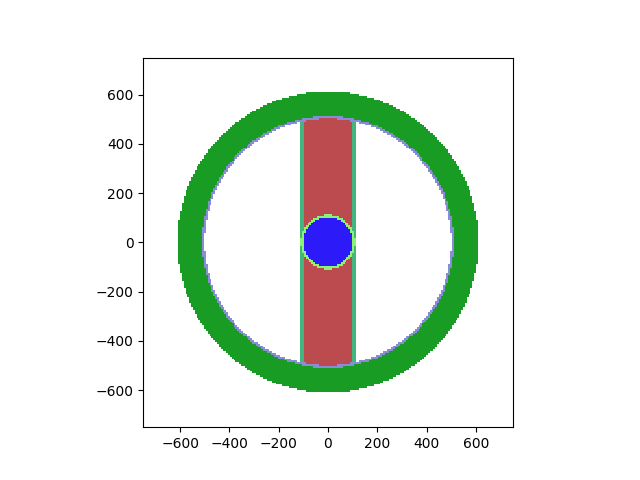
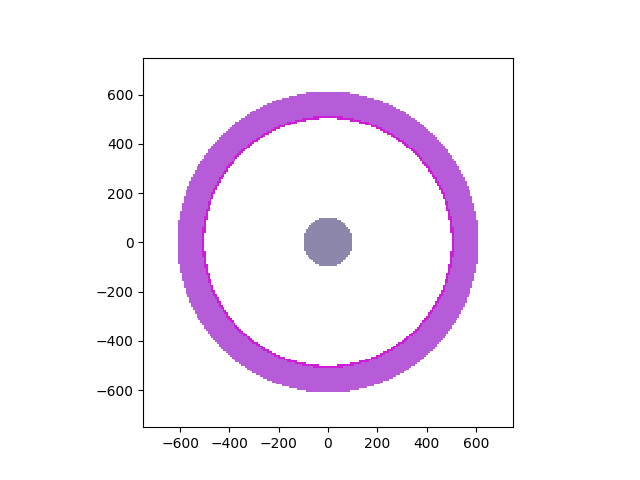
reduced amount of geometry-based tasks

Changed region(s): [[0.2812, 0.1875, 0.75, 0.8438]]

diff --git a/tasks/task_2/3_example_geometry_viewer_2d_tokamak.py b/tasks/task_2/3_example_geometry_viewer_2d_tokamak.py
@@ -30,34 +30,29 @@ mats.append(eurofer)
 
 #GEOMETRY#
 
-central_sol_surface = openmc.ZCylinder(r=100)
-central_shield_outer_surface = openmc.ZCylinder(r=110,boundary_type='vacuum')
-vessel_inner = openmc.Sphere(r=500,boundary_type='vacuum')
+central_sol_surface = openmc.ZCylinder(r=100, boundary_type='vacuum')
+vessel_inner = openmc.Sphere(r=500, boundary_type='vacuum')
 first_wall_outer_surface = openmc.Sphere(r=510)
 breeder_blanket_outer_surface = openmc.Sphere(r=610)
 
 central_sol_region = -central_sol_surface & -breeder_blanket_outer_surface
-central_sol_cell = openmc.Cell(region=central_sol_region) 
+central_sol_cell = openmc.Cell(region=central_sol_region)
 central_sol_cell.fill = copper
 
-central_shield_region = +central_sol_surface & -central_shield_outer_surface & -breeder_blanket_outer_surface
-central_shield_cell = openmc.Cell(region=central_shield_region) 
-central_shield_cell.fill = eurofer
-
-first_wall_region = -first_wall_outer_surface & +vessel_inner & +central_shield_outer_surface
+first_wall_region = -first_wall_outer_surface & +vessel_inner & +central_sol_surface
 first_wall_cell = openmc.Cell(region=first_wall_region) 
 first_wall_cell.fill = eurofer
 
-breeder_blanket_region = +first_wall_outer_surface & -breeder_blanket_outer_surface & +central_shield_outer_surface
+breeder_blanket_region = +first_wall_outer_surface & -breeder_blanket_outer_surface & +central_sol_surface
 breeder_blanket_cell = openmc.Cell(region=breeder_blanket_region) 
 breeder_blanket_cell.fill = eurofer
 
 #this is a void and hence has no material fill
-inner_vessel_region = +central_shield_outer_surface & -vessel_inner
+inner_vessel_region = +central_sol_surface & -vessel_inner
 inner_vessel_cell = openmc.Cell(region=inner_vessel_region) 
 inner_vessel_cell.name = 'inner_vessel'
 
-universe = openmc.Universe(cells=[central_sol_cell, central_shield_cell ,first_wall_cell , breeder_blanket_cell])
+universe = openmc.Universe(cells=[central_sol_cell, first_wall_cell, breeder_blanket_cell])
 
 # VISULISATION
 

diff --git a/tasks/task_2/2_example_geometry_viewer_2d.py b/tasks/task_2/2_example_geometry_viewer_2d.py
@@ -32,8 +32,8 @@ mats.export_to_xml()
 
 
 #example surfaces
-surface_sph1 = openmc.Sphere(r=100) #hint, change the radius of this shpere to 500
-surface_sph2 = openmc.Sphere(r=200) #hint, change the radius of this shpere to 500+100
+surface_sph1 = openmc.Sphere(r=100) #hint, change the radius of this sphere to 500
+surface_sph2 = openmc.Sphere(r=200) #hint, change the radius of this sphre to 500+100
 
 #add more surfaces here using https://openmc.readthedocs.io/en/stable/usersguide/geometry.html#surfaces-and-regions
 
@@ -52,9 +52,9 @@ plt.show(universe.plot(width=(400,400),basis='xz',colors={cell_1: 'blue'})) #hin
 plt.show(universe.plot(width=(400,400),basis='xy',colors={cell_1: 'blue'}))
 plt.show(universe.plot(width=(400,400),basis='yz',colors={cell_1: 'blue'}))
 
-universe.plot(width=(400,400),basis='xz',colors={cell_1: 'blue'}).get_figure().savefig('xz_shpere.png')
-universe.plot(width=(400,400),basis='xy',colors={cell_1: 'blue'}).get_figure().savefig('xy_shpere.png')
-universe.plot(width=(400,400),basis='yz',colors={cell_1: 'blue'}).get_figure().savefig('yz_shpere.png')
+universe.plot(width=(400,400),basis='xz',colors={cell_1: 'blue'}).get_figure().savefig('xz_sphere.png')
+universe.plot(width=(400,400),basis='xy',colors={cell_1: 'blue'}).get_figure().savefig('xy_sphere.png')
+universe.plot(width=(400,400),basis='yz',colors={cell_1: 'blue'}).get_figure().savefig('yz_sphere.png')
 
 geom = openmc.Geometry(universe)
 

diff --git a/README.md b/README.md
@@ -141,7 +141,7 @@ The second method of producing 2D slice plots works better for large models.
 
 ```python3 2_example_geometry_viewer_2d.py```
 
-Edit the script and try adding a first wall and shielded central column to the model using the OpenMC [simple examples](https://openmc.readthedocs.io/en/stable/examples/pincell.html#Defining-Geometry) and the [documentation](https://openmc.readthedocs.io/en/stable/usersguide/geometry.html) for CSG operations.
+Edit the script and try adding a first wall and central column to the model using the OpenMC [simple examples](https://openmc.readthedocs.io/en/stable/examples/pincell.html#Defining-Geometry) and the [documentation](https://openmc.readthedocs.io/en/stable/usersguide/geometry.html) for CSG operations.
 
 - Change the inner radius of the blanket to 500cm.
 
@@ -149,7 +149,7 @@ Edit the script and try adding a first wall and shielded central column to the m
 
 - Try adding a 20cm thick first wall to the hollow sphere.
 
-- Try adding a centre column with a 100cm radius and a 40cm shield.
+- Try adding a centre column with a 100cm radius.
 
 - Try creating a material from pure copper and assign it to the central column.
 
